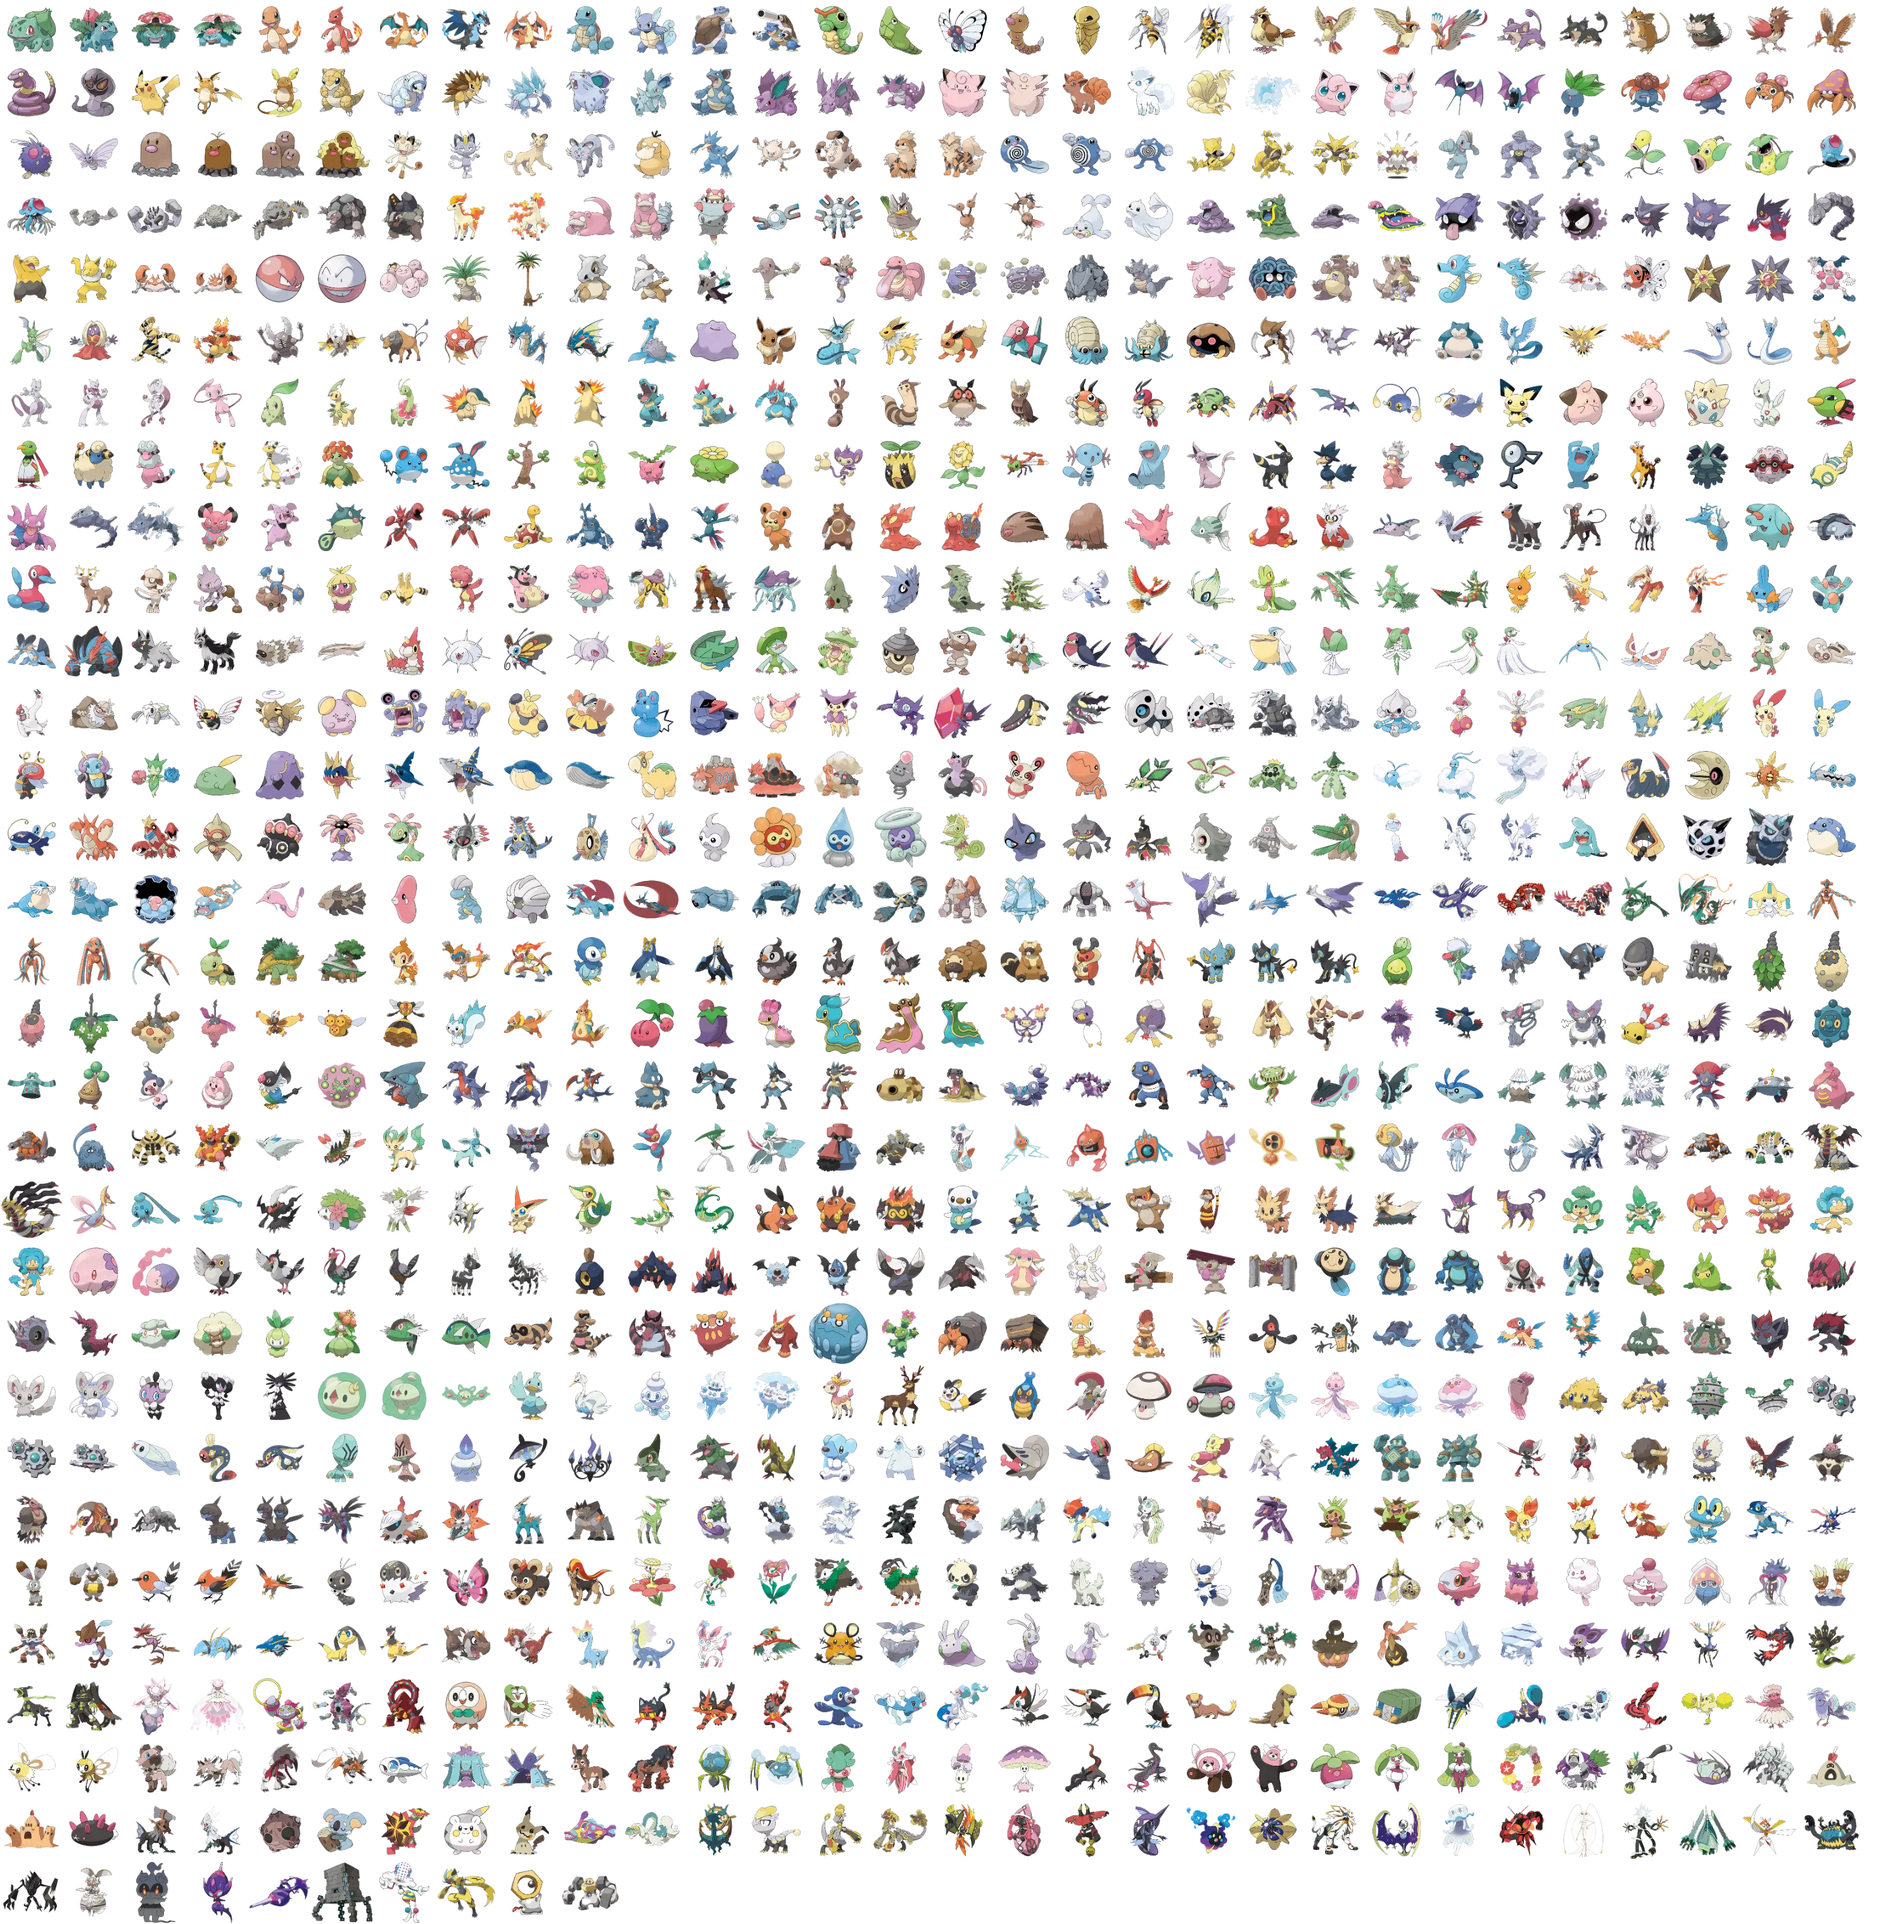
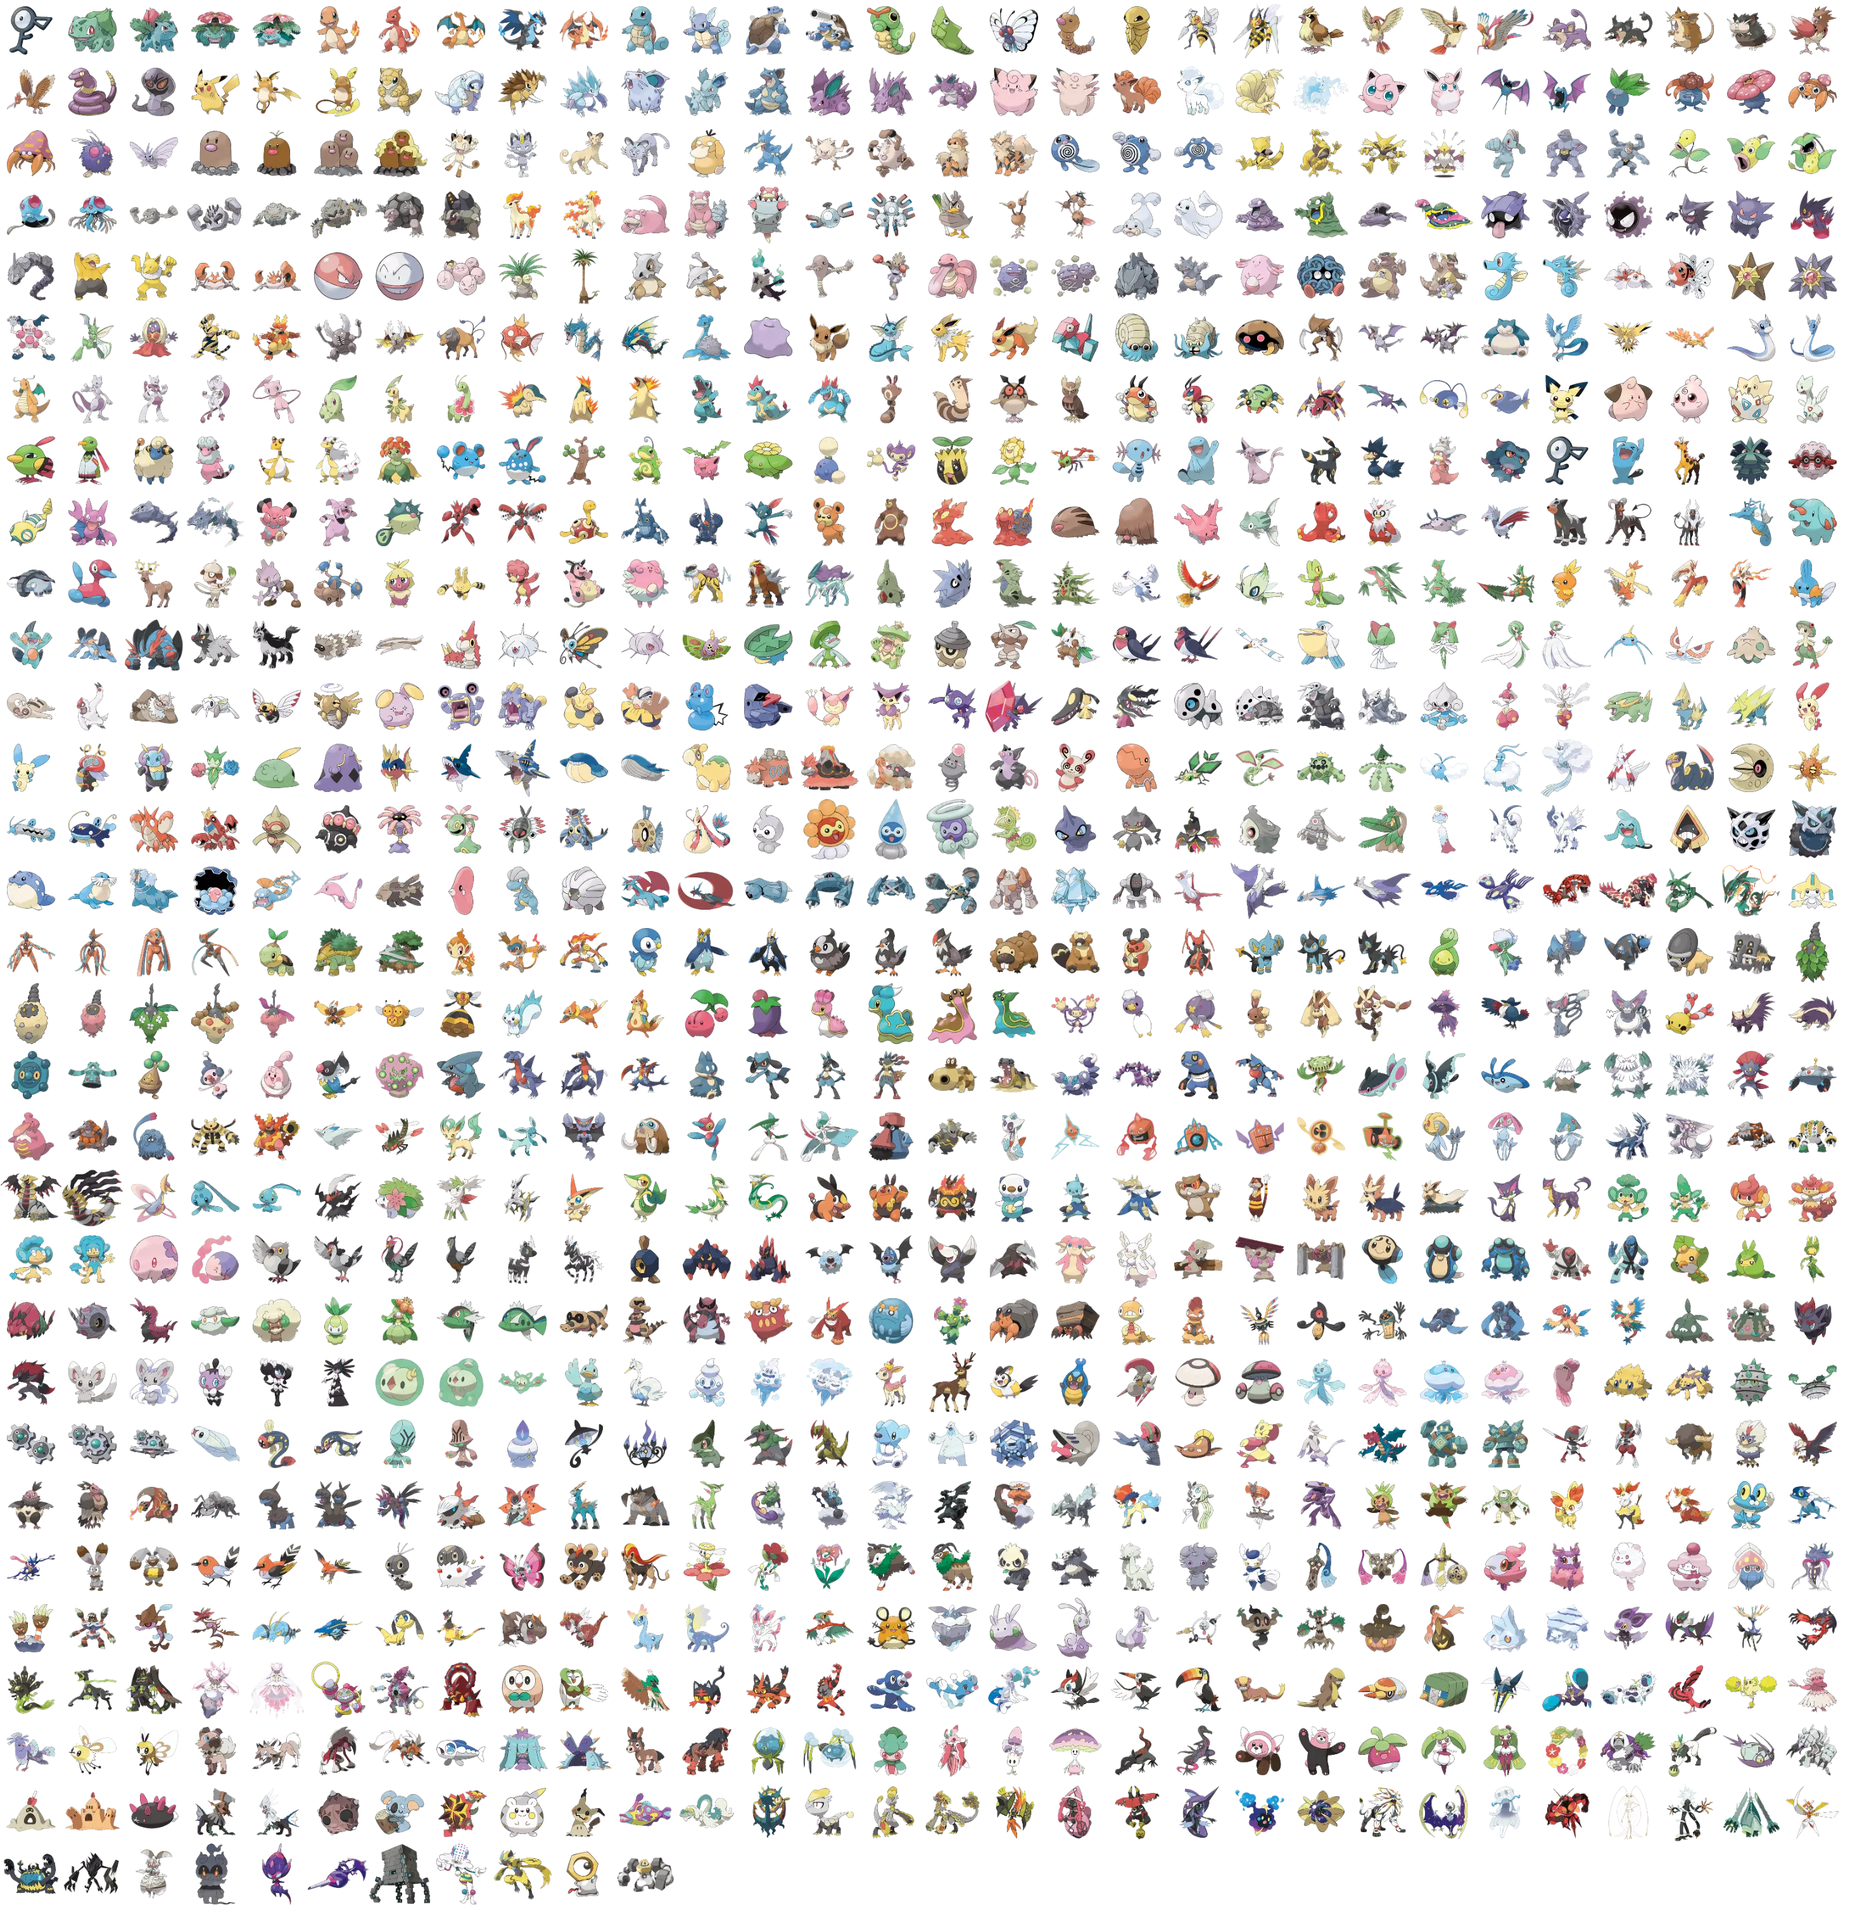
quick image fixes. looks like this could be it.

diff --git a/src/views/TeamPlanner/TeamPlanner.js b/src/views/TeamPlanner/TeamPlanner.js
@@ -24,6 +24,8 @@ import './TeamPlanner.scss';
 const { Strings, Party } = Constants;
 
 class PlannerPage extends React.Component {
+  static contextType = PokedexContext;
+
   constructor(props) {
     super(props);
     this.state = {
@@ -129,6 +131,7 @@ class PlannerPage extends React.Component {
   }
 
   render() {
+    let pokedex = this.context;
     const dexFilters = { ...this.state };
     const filterProps = {
       searchProps: {
@@ -166,69 +169,67 @@ class PlannerPage extends React.Component {
     };
 
     return (
-      <PokedexContext.Consumer>
-        {(pokedex) => (
-          <div className="team-planner">
-            <div
-              className={classNames(
-                'team-planner__container',
-                'team-planner__container--width_20',
-                'team-planner__container--hide-on_small'
-              )}
-            >
-              <Filters hiddenOn={Strings.small} {...filterProps} />
-            </div>
-            <TypeContext.Consumer>
-              {(typeMatches) => (
-                <div className="team-planner__container team-planner__container--width_80">
-                  <div className="team-planner__button-actions">
-                    <Button
-                      id="randomise-team"
-                      isAction
-                      onClick={this.handleRandomTeam(pokedex, typeMatches)}
-                    >
-                      Randomise
-                    </Button>
-                    <Button
-                      id="save-team"
-                      isAction
-                      onClick={this.handleSaveTeam}
-                    >
-                      Save team
-                    </Button>
-                    <Button
-                      id="clear-team"
-                      isAction
-                      onClick={this.handleClearTeam}
-                    >
-                      Clear team
-                    </Button>
-                  </div>
-                  <div className="team-planner__team-creator">
-                    <ClearableInput
-                      id="current-team-name"
-                      name="currentTeamName"
-                      label="Team Name"
-                      value={this.state.currentTeamName}
-                      onChange={this.handleNameInput}
-                    />
-                    <Team
-                      types={typeMatches}
-                      members={selectMembersFromPokedex(
-                        pokedex,
-                        this.state.currentTeamIds
-                      )}
-                      onMembersUpdate={this.handleMembersUpdate}
-                    />
-                  </div>
-                  <Filters hiddenOn={Strings.large} {...filterProps} />
+      <div className="team-planner">
+        <div
+          className={classNames(
+            'team-planner__container',
+            'team-planner__container--width_20',
+            'team-planner__container--hide-on_small'
+          )}
+        >
+          <Filters hiddenOn={Strings.small} {...filterProps} />
+        </div>
+        <TypeContext.Consumer>
+          {(typeMatches) => {
+            const filteredSprites = TPU.iteratePokedexToList(
+              pokedex,
+              dexFilters,
+              typeMatches
+            );
+
+            return (
+              <div className="team-planner__container team-planner__container--width_80">
+                <div className="team-planner__button-actions">
+                  <Button
+                    id="randomise-team"
+                    isAction
+                    onClick={this.handleRandomTeam(pokedex, typeMatches)}
+                  >
+                    Randomise
+                  </Button>
+                  <Button id="save-team" isAction onClick={this.handleSaveTeam}>
+                    Save team
+                  </Button>
+                  <Button
+                    id="clear-team"
+                    isAction
+                    onClick={this.handleClearTeam}
+                  >
+                    Clear team
+                  </Button>
+                </div>
+                <div className="team-planner__team-creator">
+                  <ClearableInput
+                    id="current-team-name"
+                    name="currentTeamName"
+                    label="Team Name"
+                    value={this.state.currentTeamName}
+                    onChange={this.handleNameInput}
+                  />
+                  <Team
+                    types={typeMatches}
+                    members={selectMembersFromPokedex(
+                      pokedex,
+                      this.state.currentTeamIds
+                    )}
+                    onMembersUpdate={this.handleMembersUpdate}
+                  />
+                </div>
+                <Filters hiddenOn={Strings.large} {...filterProps} />
+                {!!filteredSprites.length && (
                   <Grid
                     className="team-planner__sprite-list"
-                    items={TPU.iteratePokedexToList(
-                      pokedex,
-                      dexFilters,
-                      typeMatches
-                    )}
+                    items={filteredSprites}
                   >
                     {(item, i) => (
                       <Sprite
@@ -238,12 +239,15 @@ class PlannerPage extends React.Component {
                       />
                     )}
                   </Grid>
-                </div>
-              )}
-            </TypeContext.Consumer>
-          </div>
-        )}
-      </PokedexContext.Consumer>
+                )}
+                {!filteredSprites.length && (
+                  <div>No pokemon available for the current filter.</div>
+                )}
+              </div>
+            );
+          }}
+        </TypeContext.Consumer>
+      </div>
     );
   }
 }

diff --git a/src/data/index.js b/src/data/index.js
@@ -10,7 +10,7 @@ import megas from './raw/mega-evolutions.json';
 import regionalVariants from './raw/regional-variants.json';
 import types from './raw/types.json';
 
-const SPRITES_PER_ROW = 31;
+const SPRITES_PER_ROW = 30;
 const ART_PER_ROW = 30;
 
 export function constructPokedex() {
@@ -20,13 +20,13 @@ export function constructPokedex() {
 
   return combineAndSortMaps(
     ([id, mon], order) => {
-      const sOffset = -42;
-      const aOffset = -98;
-      const sy = -4 + sOffset * Math.floor(order / SPRITES_PER_ROW);
-      const sx = -2 + sOffset * (order % SPRITES_PER_ROW);
-      const ay = 0 + aOffset * Math.floor(order / ART_PER_ROW);
-      const ax = -2 + aOffset * (order % ART_PER_ROW);
-      // TODO check these values
+      const sOffset = -41;
+      const aOffset = -97;
+      const sy = -2 + sOffset * Math.floor(order / SPRITES_PER_ROW);
+      const sx = -1 + sOffset * (order % SPRITES_PER_ROW);
+      const ay = 0 + aOffset * Math.floor((order + 1) / ART_PER_ROW);
+      const ax = -1 + aOffset * ((order + 1) % ART_PER_ROW);
+
       return [
         id,
         {

diff --git a/src/components/ArtCard/ArtCard.js b/src/components/ArtCard/ArtCard.js
@@ -2,14 +2,17 @@ import PropTypes from 'prop-types';
 import classNames from 'classnames';
 import React from 'react';
 
+import { capitaliseEachWord } from 'utils/common';
 import { buildSelectorsForArtCard } from 'utils/selectors';
 
 import './ArtCard.scss';
 
 class ArtCard extends React.PureComponent {
   render() {
-    const backgroundPosition = this.props.data.artPosition;
-    const artCardClasses = buildSelectorsForArtCard(this.props.data);
+    const { data } = this.props;
+    const backgroundPosition = data.artPosition;
+    const artCardClasses = buildSelectorsForArtCard(data);
+
     return (
       <div className={classNames('art-card', artCardClasses.types)}>
         <div
@@ -19,6 +22,11 @@ class ArtCard extends React.PureComponent {
             artCardClasses.name
           )}
           style={backgroundPosition}
+          aria-label={capitaliseEachWord(
+            `${data.name}${
+              data.form ? ` (${capitaliseEachWord(data.form)})` : ''
+            }`
+          )}
         />
       </div>
     );

diff --git a/src/components/TeamMember/TeamMember.js b/src/components/TeamMember/TeamMember.js
@@ -91,9 +91,7 @@ class TeamMember extends React.Component {
           data={data}
         />
         <div className={classNames('team-member__name-bubble')}>
-          {capitaliseEachWord(
-            `${data.name}${data.form ? ` (${data.form})` : ''}`
-          )}
+          {capitaliseEachWord(data.name)}
         </div>
         <div className={classNames('team-member__types')}>
           {data.types.map((type) => (

diff --git a/src/components/Sprite/Sprite.js b/src/components/Sprite/Sprite.js
@@ -15,7 +15,7 @@ const Sprite = React.memo(function(props) {
   const hasClick = !!onClick;
   const spriteClick = hasClick ? () => onClick(data.id) : null;
   const capitalisedName = capitaliseEachWord(
-    `${data.name}${data.form ? ` (${data.form})` : ''}`
+    `${data.name}${data.form ? ` (${capitaliseEachWord(data.form)})` : ''}`
   );
 
   return (

diff --git a/src/views/TeamPlanner/TeamPlanner.scss b/src/views/TeamPlanner/TeamPlanner.scss
@@ -37,6 +37,7 @@
   &__sprite-list {
     grid-template-columns: repeat(auto-fit, 46px);
     grid-auto-rows: 1fr;
-    justify-content: space-evenly;
+    justify-content: flex-start;
+    grid-column-gap: 2px;
   }
 }
